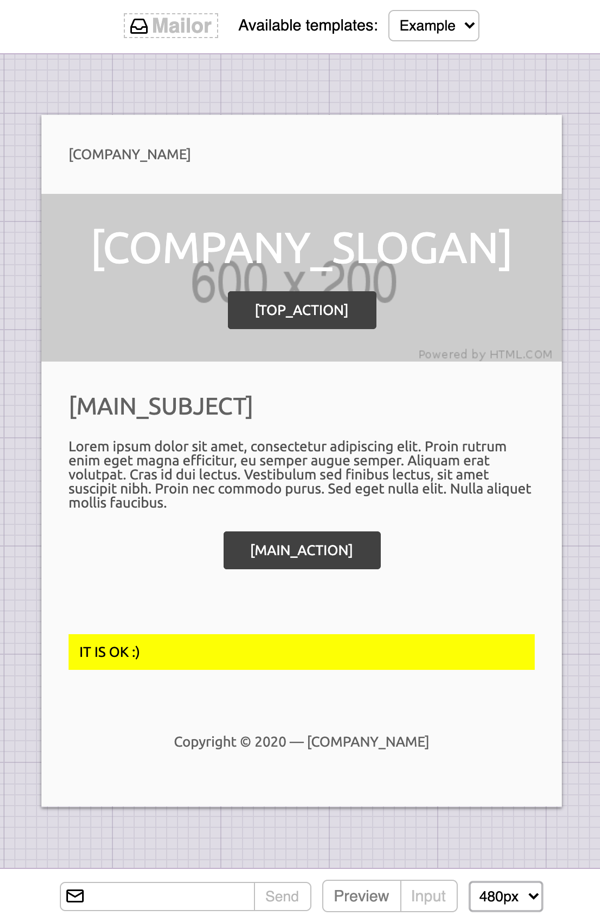
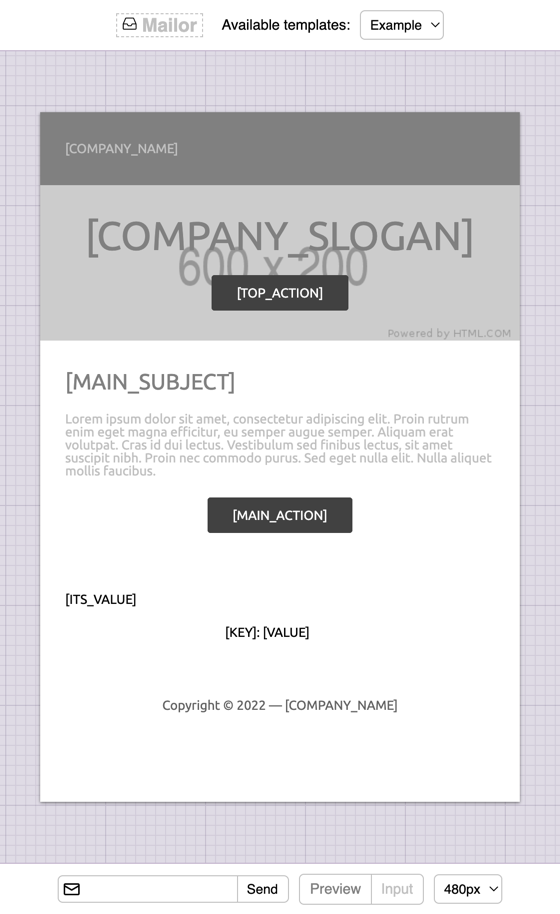
chore: upgrade example templates

diff --git a/example/templates/_styles.less b/example/templates/_styles.less
@@ -1,4 +1,4 @@
-.highlight div {
+.highlight > div {
   background-color: yellow;
   padding: 10px;
 }
